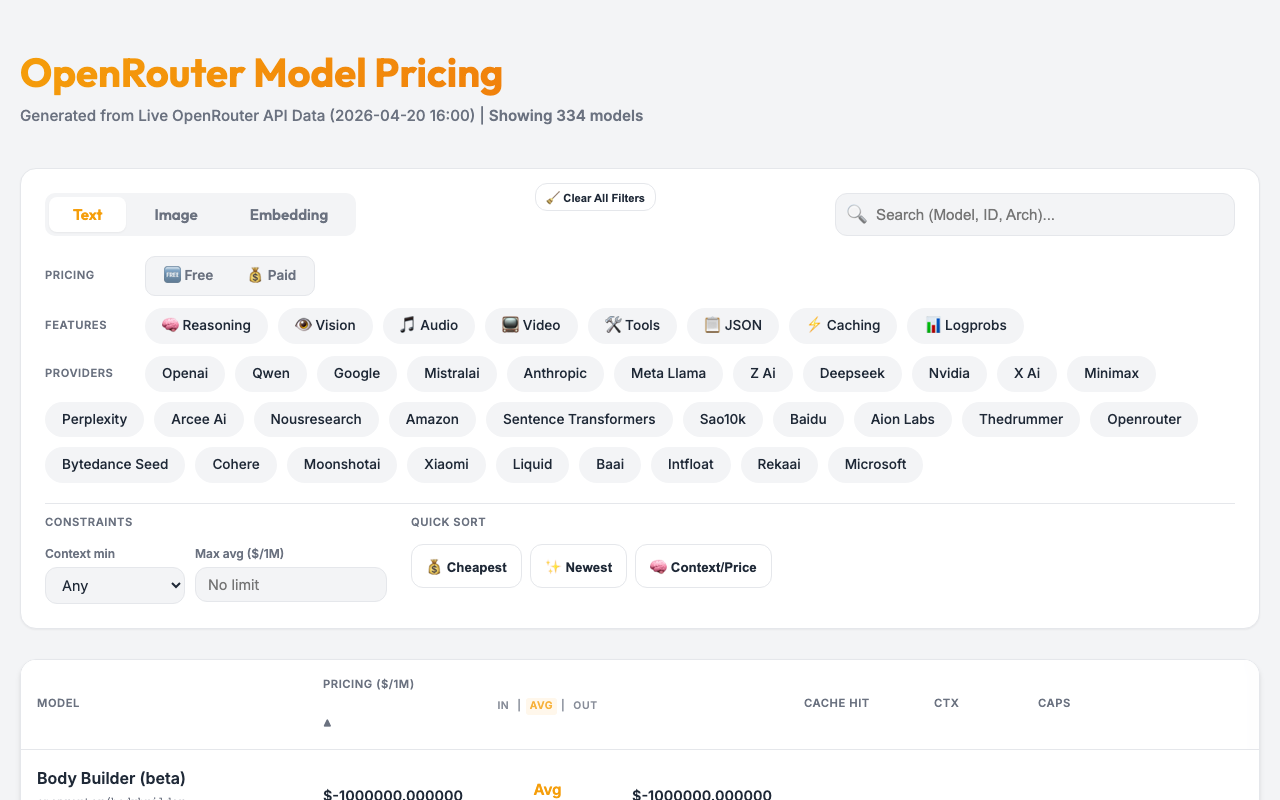
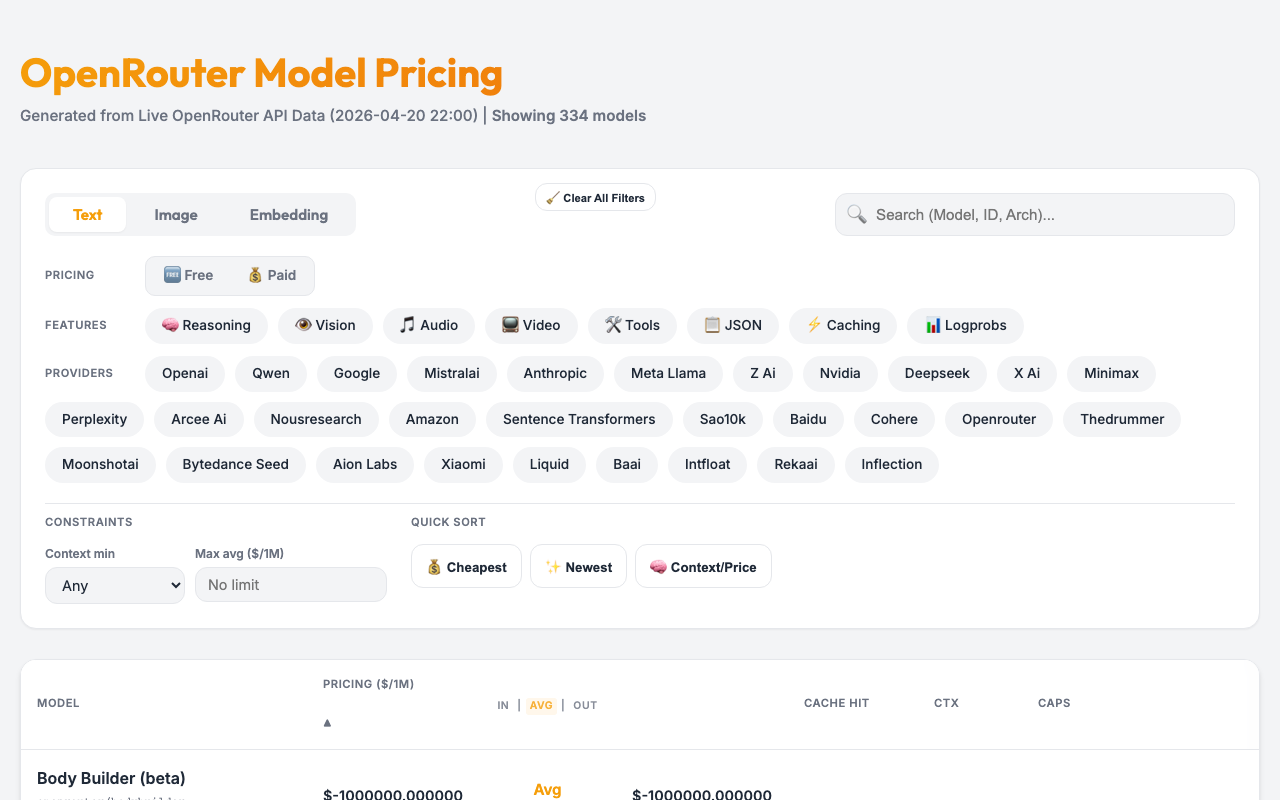
chore: automated pricing update (2026-04-20 22:00:33)
🔄 Changed Models (1): google/gemini-2.0-flash-001

diff --git a/docs/index.html b/docs/index.html
@@ -668,7 +668,7 @@
     <div class="container">
         <header>
             <h1>OpenRouter Model Pricing</h1>
-            <div class="meta">Generated from Live OpenRouter API Data (2026-04-20 16:00)</div>
+            <div class="meta">Generated from Live OpenRouter API Data (2026-04-20 22:00)</div>
         </header>
 
         <div class="controls">
@@ -14437,7 +14437,7 @@
       "name": "Google: Gemini 2.0 Flash",
       "created": 1738769413,
       "description": "Gemini Flash 2.0 offers a significantly faster time to first token (TTFT) compared to [Gemini Flash 1.5](/google/gemini-flash-1.5), while maintaining quality on par with larger models like [Gemini Pro 1.5](/google/gemini-pro-1.5). It...",
-      "context_length": 1048576,
+      "context_length": 1000000,
       "architecture": {
         "modality": "text+image+file+audio+video->text",
         "input_modalities": [
@@ -14463,7 +14463,7 @@
         "input_cache_write": "0.00000008333333333333334"
       },
       "top_provider": {
-        "context_length": 1048576,
+        "context_length": 1000000,
         "max_completion_tokens": 8192,
         "is_moderated": false
       },
@@ -20507,7 +20507,7 @@
     }
   ]
 };
-        window.providerOptions = ['openai', 'qwen', 'google', 'mistralai', 'anthropic', 'meta-llama', 'z-ai', 'deepseek', 'nvidia', 'x-ai', 'minimax', 'perplexity', 'arcee-ai', 'nousresearch', 'amazon', 'sentence-transformers', 'sao10k', 'baidu', 'aion-labs', 'thedrummer', 'openrouter', 'bytedance-seed', 'cohere', 'moonshotai', 'xiaomi', 'liquid', 'baai', 'intfloat', 'rekaai', 'microsoft', 'morph', 'relace', 'inflection', 'thenlper', 'allenai', 'gryphe', 'upstage', 'mancer', 'tngtech', 'essentialai', 'ai21', 'ibm-granite', 'tencent', 'bytedance', 'alfredpros', 'alibaba', 'alpindale', 'stepfun', 'switchpoint', 'writer', 'inception', 'kwaipilot', 'nex-agi', 'anthracite-org', 'undi95', 'prime-intellect', 'cognitivecomputations', 'deepcogito'];
+        window.providerOptions = ['openai', 'qwen', 'google', 'mistralai', 'anthropic', 'meta-llama', 'z-ai', 'nvidia', 'deepseek', 'x-ai', 'minimax', 'perplexity', 'arcee-ai', 'nousresearch', 'amazon', 'sentence-transformers', 'sao10k', 'baidu', 'cohere', 'openrouter', 'thedrummer', 'moonshotai', 'bytedance-seed', 'aion-labs', 'xiaomi', 'liquid', 'baai', 'intfloat', 'rekaai', 'inflection', 'relace', 'microsoft', 'allenai', 'thenlper', 'morph', 'mancer', 'kwaipilot', 'prime-intellect', 'switchpoint', 'anthracite-org', 'writer', 'undi95', 'ibm-granite', 'gryphe', 'alibaba', 'essentialai', 'upstage', 'ai21', 'inception', 'tngtech', 'cognitivecomputations', 'bytedance', 'alfredpros', 'nex-agi', 'deepcogito', 'stepfun', 'tencent', 'alpindale'];
         let currentTab = 'text';
         let sortKey = 'price_avg';
         let sortAsc = true;
